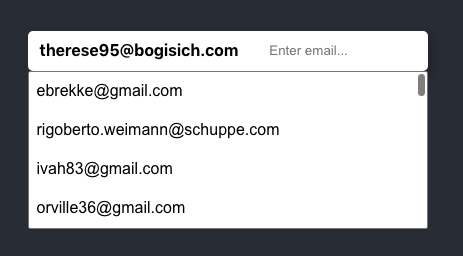
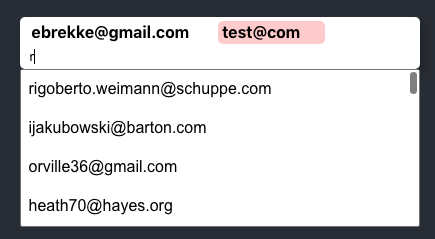
Add validation email

Changed region(s): [[0.0299, 0.0586, 0.9862, 0.9665]]

diff --git a/src/components/MultiSelect/MultiSelect.tsx b/src/components/MultiSelect/MultiSelect.tsx
@@ -9,6 +9,8 @@ import React, {
 import { useGetEmails } from "./useGetEmails";
 import debounce from "debounce";
 import { useLayer } from "react-laag";
+import cx from "classnames";
+import { validateEmail } from "../../utils/validations";
 
 interface Emails {
   selected: string[];
@@ -20,7 +22,6 @@ export const Select = () => {
   const [emails, setEmails] = useState<Emails>({ selected: [], filtered: [] });
   const [isOpen, setIsOpen] = useState(false);
   const inputRef = createRef<HTMLInputElement>();
-
   const { triggerProps, layerProps, renderLayer } = useLayer({
     placement: "bottom-start",
     isOpen,
@@ -33,26 +34,6 @@ export const Select = () => {
       .filter((email) => email.includes(filter))
       .filter((emails) => !toRemove.has(emails));
     setEmails((prevState) => ({ ...prevState, filtered }));
-  };
-
-  const handleChange = debounce((event: ChangeEvent<HTMLInputElement>) => {
-    const value = event.target.value;
-    value && filterEmails(value);
-  }, 200);
-
-  const handleFocus = () => {
-    setIsOpen(true);
-  };
-
-  const handleSelect = (event: ChangeEvent<HTMLSelectElement>) => {
-    const value = event.target.value;
-    value && addEmail(value);
-  };
-
-  const handleKeyDown = (event: KeyboardEvent<HTMLInputElement>) => {
-    if (event.key === "Enter" && event.currentTarget.value) {
-      addEmail(event.currentTarget.value);
-    }
   };
 
   const addEmail = (email: string) => {
@@ -84,6 +65,31 @@ export const Select = () => {
     }));
   };
 
+  const handleChange = debounce((event: ChangeEvent<HTMLInputElement>) => {
+    const value = event.target.value;
+    filterEmails(value);
+    setIsOpen(true);
+  }, 200);
+
+  const handleFocus = () => {
+    setIsOpen(true);
+  };
+
+  const handleSelect = (event: ChangeEvent<HTMLSelectElement>) => {
+    const value = event.target.value;
+    value && addEmail(value);
+  };
+
+  const handleKeyDown = (event: KeyboardEvent<HTMLInputElement>) => {
+    if (
+      (event.key === "Enter" || event.key === "Tab") &&
+      event.currentTarget.value
+    ) {
+      addEmail(event.currentTarget.value);
+      event.preventDefault();
+    }
+  };
+
   useEffect(() => {
     setEmails((prevState) => ({ ...prevState, filtered: initialEmails }));
   }, [initialEmails]);
@@ -93,8 +99,12 @@ export const Select = () => {
       <div className={style.fakeInput} {...triggerProps}>
         {emails.selected.map((email, index) => {
           return (
-            <div className={style.tag} key={index}>
-              {/* <div className={`${style.tag} ${style.tagError}`}> */}
+            <div
+              className={cx(style.tag, {
+                [style.tagError]: !validateEmail(email),
+              })}
+              key={index}
+            >
               {email}
               <button
                 className={style.removeButton}

diff --git a/src/utils/validations.ts b/src/utils/validations.ts
@@ -1,0 +1,3 @@
+export const validateEmail = (email: string) => {
+  return /^[^\s@]+@[^\s@]+\.[^\s@]+$/.test(email.toLowerCase());
+};
